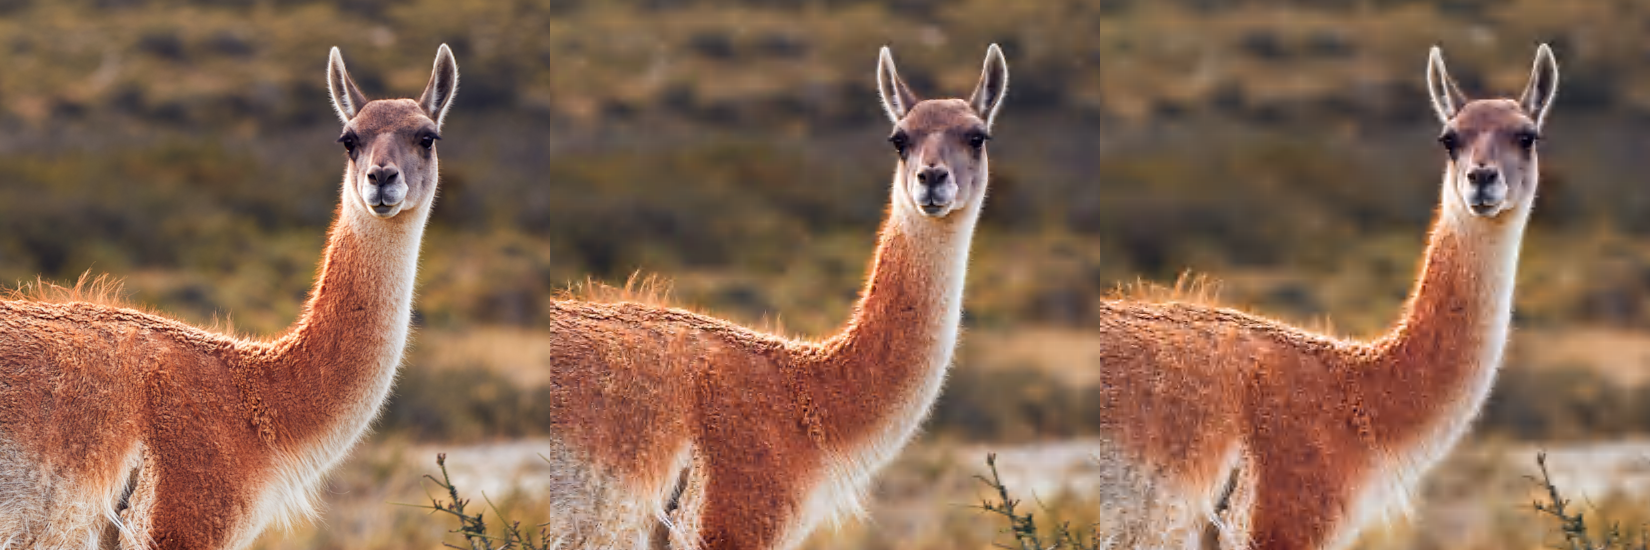
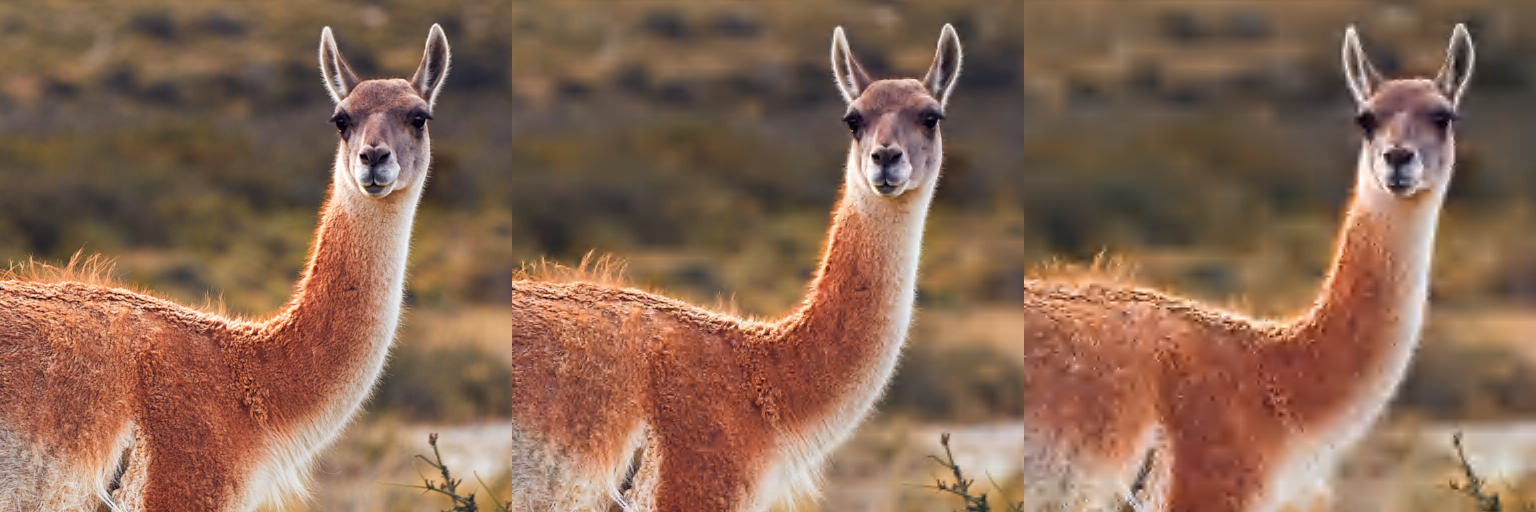
Updated Readme

diff --git a/README.md b/README.md
@@ -2,38 +2,49 @@
 Ako
 ===
 
-Image codec using discrete wavelet transform (CDF 5/3), on top of [LZ4][12] compression (a Lempel-Ziv based algorithm).
+Image codec using discrete wavelet transform (CDF 5/3).
 
 **A toy-project**. It is me learning how image codecs works, having fun following a bunch of papers. :)
 
 It supports/implements:
 - Image sizes power of two (4, 8, ..., 256, 512, 1024, etc.)
-- Up to 4 channels
-- 8 bits per component
-- YCoCg colorspace (can be disabled at compilation time)
-- Configurable quality loss (examples below)
-- A Lempel-Ziv compression is not ideal, nonetheless the codec can handle ratios of **1:10** before artifacts became obvious
-- A "good" performance. Except some care on cache and memory usage, there is no optimization done at the moment
+- Up to 4 channels.
+- 8 bits per component.
+- YCoCg colorspace (can be disabled at compilation time).
+- Configurable quality loss (examples below).
+- Simple Elias-gamma entropy compression, nonetheless the codec can handle ratios of 1:10 before artifacts became obvious.
+- A "good" performance. There is some care on cache and memory usage, the CDF 5/3 wavelet is incredible simple, and almost everything is done with integers... still there is space for improvement (a lot).
 
 
 Compilation
 -----------
-The requirements are [libpng][13] and [ninja][14]. On Ubuntu you can install them with:
+The build requirements are [git][13], [ninja][14] or [cmake][15]. As runtime dependency [libpng][16].
+
+On Ubuntu you can install all them with:
 ```
-sudo apt install ninja-build libpng-dev
+sudo apt install git ninja-build cmake libpng-dev
 ```
 
-To compile with:
+### With Ninja
 ```
 git clone https://github.com/baAlex/Ako
 cd Ako
 ninja
 ```
 
+### With Cmake
+```
+git clone https://github.com/baAlex/Ako
+cd Ako
+mkdir build
+cd build
+cmake -DCMAKE_BUILD_TYPE=Release ..
+cmake --build .
+```
 
 Usage
 -----
-The two executables `akoenc` and `akodec` will let you try the codec. Execute them whitout any argument to read the usage help. But is mostly:
+The two executables `akoenc` and `akodec` will let you try the codec. Run them whitout any argument to read the usage help. But is mostly:
 
 ```
 akoenc -g 16 -i "input.png" -o "out.ako"
@@ -46,42 +57,44 @@ Examples
 Please consider the following examples as mere illustrations, the codec is constantly improving.
 
 ![](./resources/guanaco-readme.png)
-- [Uncompressed][1] (3.14 MB), [**1:17**][2] (183.84 kB), [**1:30**][3] (102.85 kB)
-- Using noise gate thresholds: 16 and 32
+- [Uncompressed][1] (3.14 MB), [**1:16**][2] (198.76 kB), [**1:33**][3] (96.02 kB), [**1:77**][4] (40.42 kB)
+- In the picture using noise gate thresholds: 16 and 64 (center and right)
 
 ![](./resources/kodak8-readme.png)
-- [Uncompressed][4] (786.45 kB), [**1:10**][5] (78.73 kB), [**1:17**][6] (46.41 kB)
-- Using noise gate thresholds: 16 and 32
+- [Uncompressed][4] (786.45 kB), [**1:9**][5] (84.58 kB), [**1:17**][6] (45.48 kB), [**1:40**][7] (19.52 kB)
+- In the picture using noise gate thresholds: 16 and 64 (center and right)
 
 ![](./resources/cafe-readme.png)
-- [Uncompressed][7] (12.6 MB), [**1:17**][8] (700.57 kB), [**1:29**][9] (430.95 kB)
-- Using noise gate thresholds: 40 and 70
+- [Uncompressed][7] (12.6 MB), [**1:7**][8] (1821.75 kB), [**1:13**][8] (997.12 kB), [**1:26**][9] (470.88 kB)
+- In the picture using noise gate thresholds: 16 and 64 (center and right)
 
 
 License
 -------
-- Copyright (c) 2021 Alexander Brandt. Source code under **MIT License**.
-- Copyright (c) 2011-2020, Yann Collet. Under **BSD 2-Clause license**.
+Source code under MIT License. Terms specified in [LICENSE][12].
 
-Terms specified in [LICENSE][10] and [THIRDPARTY_NOTICES][11]. Files in folder "library" under a combination of MIT and BSD 2-Clause licences. Each file includes the respective notice at the beginning.
+Each file includes the respective notice at the beginning.
 
 ____
 
 [1]: ./test-images/guanaco.png
-[2]: ./resources/guanaco-g16.png
-[3]: ./resources/guanaco-g32.png
+[2]: ./resources/guanaco.ako16.png
+[3]: ./resources/guanaco.ako32.png
+[4]: ./resources/guanaco.ako64.png
 
-[4]: ./test-images/kodak8.png
-[5]: ./resources/kodak8-g16.png
-[6]: ./resources/kodak8-g32.png
+[5]: ./test-images/kodak8.png
+[6]: ./resources/kodak8.ako16.png
+[7]: ./resources/kodak8.ako32.png
+[8]: ./resources/kodak8.ako64.png
 
-[7]: ./test-images/cafe.png
-[8]: ./resources/cafe-g40.png
-[9]: ./resources/cafe-g70.png
+[8]: ./test-images/cafe-crop.png
+[9]: ./resources/cafe-crop.ako16.png
+[10]: ./resources/cafe-crop.ako32.png
+[11]: ./resources/cafe-crop.ako64.png
 
-[10]: ./LICENSE
-[11]: ./THIRDPARTY_NOTICES
+[12]: ./LICENSE
 
-[12]: https://github.com/lz4/lz4
-[13]: http://www.libpng.org/pub/png/libpng.html
+[13]: https://git-scm.com/
 [14]: https://ninja-build.org/
+[15]: https://cmake.org/
+[16]: http://www.libpng.org/pub/png/libpng.html
